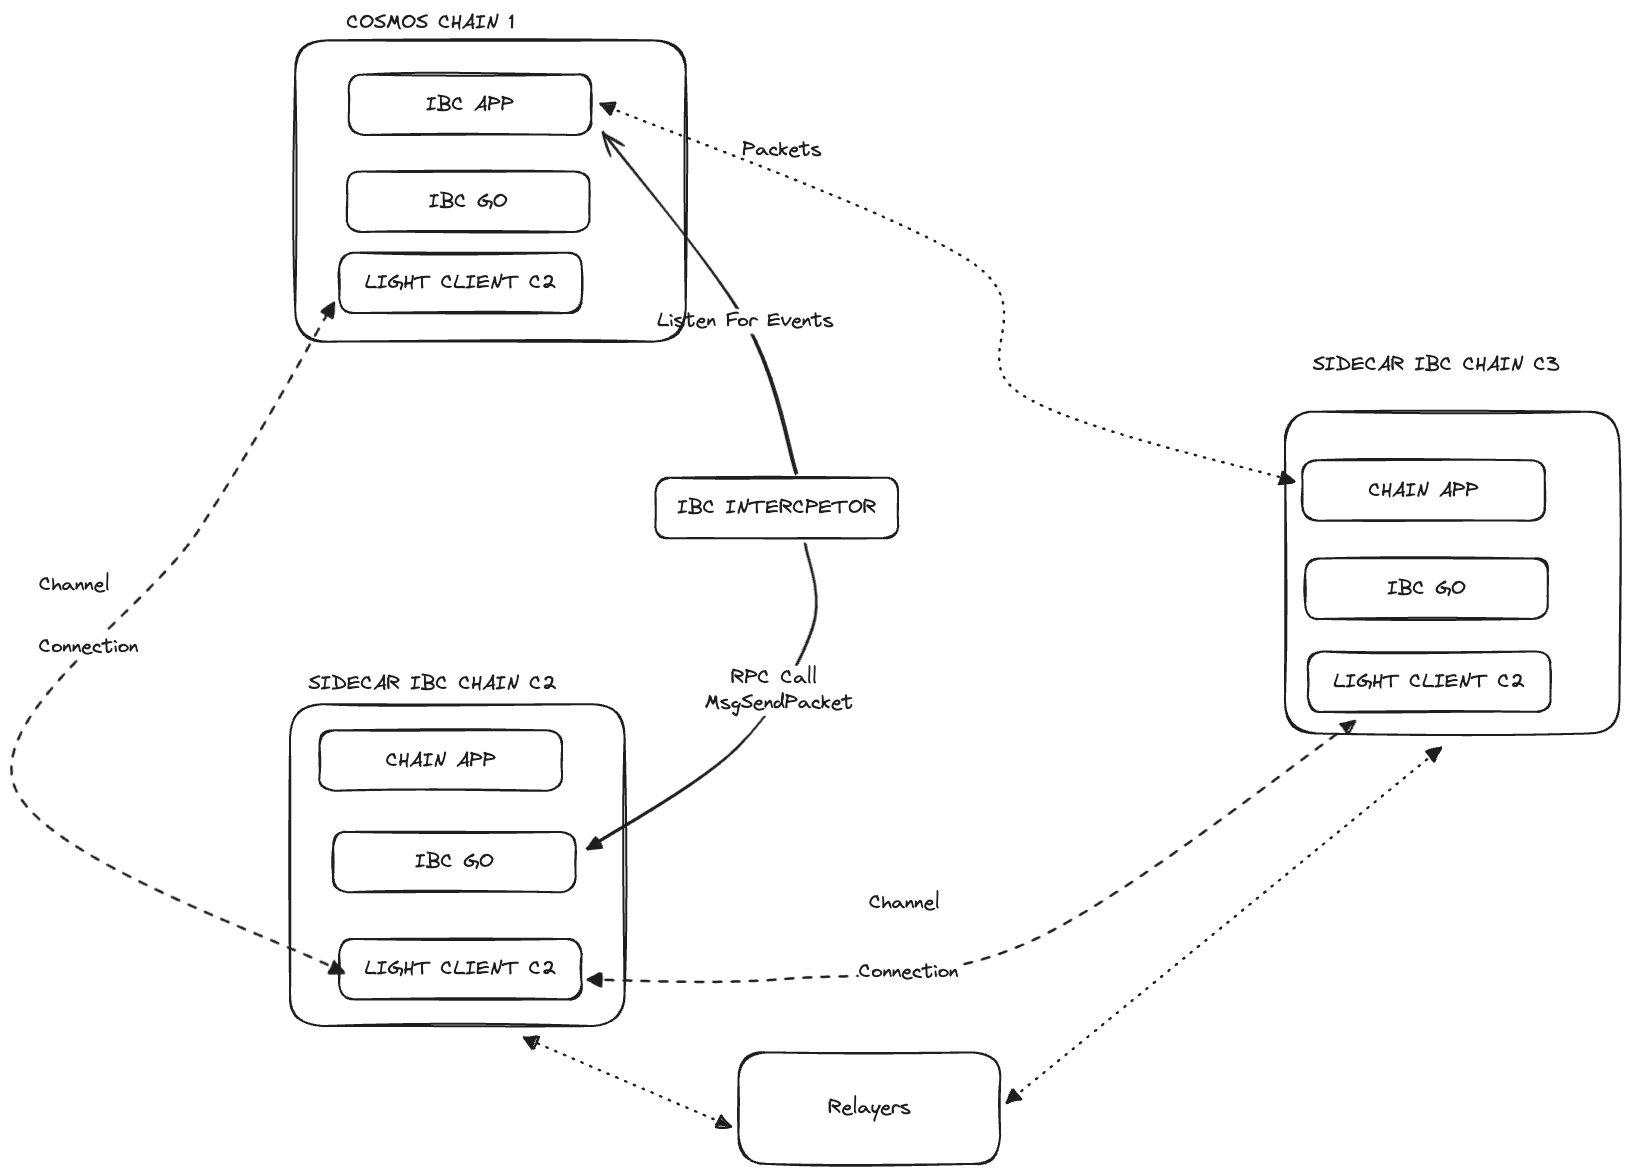
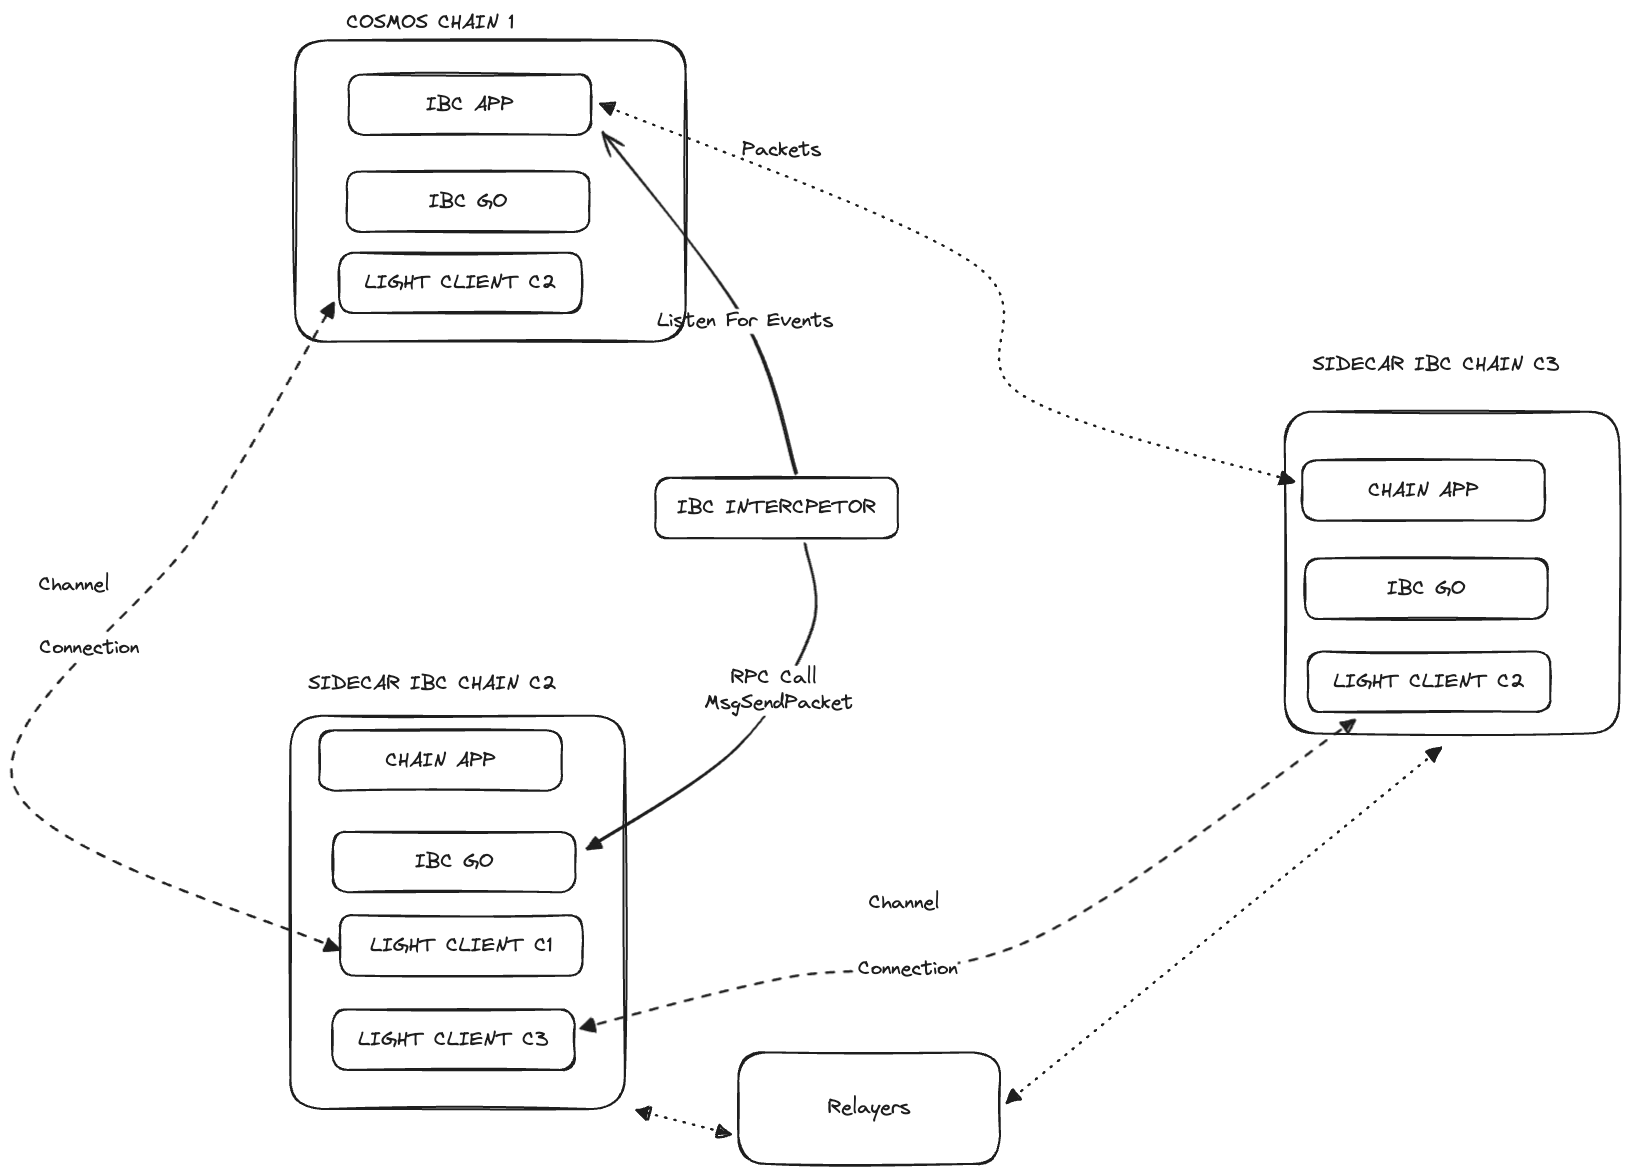
fixes

diff --git a/README.md b/README.md
@@ -11,7 +11,7 @@ To set up the environment follow this [tutorial](https://github.com/cosmos/ibc-g
 
 ![Image](PoC_Config.png)
 
-[Escalidraw Link](https://excalidraw.com/#json=sZVo3L-I1TA4cB5HYJSeT,wk8CTC3vmj5vbuVKqhO09Q)
+[Escalidraw Link](https://excalidraw.com/#json=MXyV5YBJ3uRKTKJa2Lbo2,Mh5NL_M4mjD91nINhk2Dww)
 
 Use [chain1](https://github.com/sangier-ibc-playground/ibc-go/tree/main) to generate the simd binary of chain1
 Use [chain2](https://github.com/sangier-ibc-playground/ibc-go/tree/stefano/async-send-packet-ibc-go) to generate the simd binary of chain2
